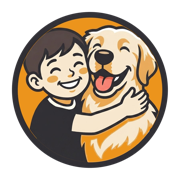
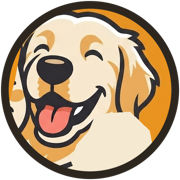
Raise the 12-month tier to 5x, cut the early-exit slash to 15%
Both numbers appear in the contract, the tests, four UI components, the
README and the pre-commitment doc, so all six were changed together.

The tier weighting test had the old multiplier baked into its arithmetic:
1000 flexible against 1000 locked was a 1:3 split of a 4000 donation, with
2000 escrowed as boost. At 5x the pool weight is 6000, so the donation moves
to 6000 to keep the shares exact — 1000 base to each, 4000 escrowed —
rather than introducing rounding into an equality assertion.

Two near-misses avoided: the '<20%>' in PRE-COMMITMENT is a bucket
allocation placeholder, and the 2_000n * UNIT values in the tests are token
amounts. Neither is the slash.

Favicons: uses the supplied dog-head crop instead of a downscale of the full
badge, which lost all structure in the tab. The site now has two marks —
badge-512 for link previews and listings, mark-* for anything small,
including the 44px header, where the two-figure scene was equally
unreadable. Deletes the icon-* files generated from the badge.

7 Rust tests, 37 integration tests, IDL regenerated.

diff --git a/tests/buddy-distributor.ts b/tests/buddy-distributor.ts
@@ -35,7 +35,7 @@ const UNIT = 1_000_000n; // 6 decimals
 // Mirrors EMERGENCY_EXIT_SLASH_BPS in programs/buddy-distributor/src/constants.rs.
 // Kept as a named constant because two separate assertions depend on it, and
 // hard-coding the fraction meant changing the slash silently broke the suite.
-const EMERGENCY_EXIT_SLASH_BPS = 2_000n; // 20%
+const EMERGENCY_EXIT_SLASH_BPS = 1_500n; // 15%
 const OLD_ALLOC = 550_000n * UNIT;
 const INF_ALLOC = 150_000n * UNIT;
 const SIGNER_ALLOC = 200_000n * UNIT;
@@ -736,11 +736,11 @@ describe("buddy-distributor", () => {
       const attacker = await makeStaker(b.env, 1_000n * UNIT);
       const loyal = await makeStaker(b.env, 1_000n * UNIT);
 
-      await stake(b.env, attacker.staker, attacker.acct, 1_000n * UNIT, Tier.TwelveMonth); // 3.0x
+      await stake(b.env, attacker.staker, attacker.acct, 1_000n * UNIT, Tier.TwelveMonth); // 5.0x
       await stake(b.env, loyal.staker, loyal.acct, 1_000n * UNIT, Tier.Flexible); // 1.0x
 
-      const donor = await makeStaker(b.env, 4_000n * UNIT);
-      await notifyTokens(b.env, donor.staker, donor.acct, 4_000n * UNIT);
+      const donor = await makeStaker(b.env, 6_000n * UNIT);
+      await notifyTokens(b.env, donor.staker, donor.acct, 6_000n * UNIT);
 
       // Attacker drains everything claimable, then immediately breaks the lock.
       await b.env.program.methods
@@ -815,8 +815,8 @@ describe("buddy-distributor", () => {
       await stake(b.env, quitter.staker, quitter.acct, 1_000n * UNIT, Tier.TwelveMonth);
       await stake(b.env, loyal.staker, loyal.acct, 1_000n * UNIT, Tier.Flexible);
 
-      const donor = await makeStaker(b.env, 4_000n * UNIT);
-      await notifyTokens(b.env, donor.staker, donor.acct, 4_000n * UNIT);
+      const donor = await makeStaker(b.env, 6_000n * UNIT);
+      await notifyTokens(b.env, donor.staker, donor.acct, 6_000n * UNIT);
 
       await b.env.program.methods
         .emergencyExit()
@@ -941,10 +941,10 @@ describe("buddy-distributor", () => {
       const flex = await makeStaker(b.env, 1_000n * UNIT);
       const locked = await makeStaker(b.env, 1_000n * UNIT);
       await stake(b.env, flex.staker, flex.acct, 1_000n * UNIT, Tier.Flexible); // weight 1000
-      await stake(b.env, locked.staker, locked.acct, 1_000n * UNIT, Tier.TwelveMonth); // weight 3000
+      await stake(b.env, locked.staker, locked.acct, 1_000n * UNIT, Tier.TwelveMonth); // weight 5000
 
-      const donor = await makeStaker(b.env, 4_000n * UNIT);
-      await notifyTokens(b.env, donor.staker, donor.acct, 4_000n * UNIT);
+      const donor = await makeStaker(b.env, 6_000n * UNIT);
+      await notifyTokens(b.env, donor.staker, donor.acct, 6_000n * UNIT);
 
       const flexPos = await (b.env.program.account as any).stakePosition.fetch(stakePda(flex.staker.publicKey, b.env.programId));
       const lockedPos = await (b.env.program.account as any).stakePosition.fetch(
@@ -952,10 +952,10 @@ describe("buddy-distributor", () => {
       );
       // Settlement is lazy, so read the pool accumulator and compute expectations.
       const pool = await (b.env.program.account as any).stakePool.fetch(b.env.poolPda);
-      assert.equal(pool.totalWeight.toString(), (4_000n * UNIT).toString());
+      assert.equal(pool.totalWeight.toString(), (6_000n * UNIT).toString());
 
-      // Flexible: 1/4 of 4000 = 1000, all of it base.
-      // Locked:   3/4 of 4000 = 3000, of which 1000 base and 2000 boost.
+      // Flexible: 1/6 of 6000 = 1000, all of it base.
+      // Locked:   5/6 of 6000 = 5000, of which 1000 base and 4000 boost.
       await b.env.program.methods
         .claimRewards()
         .accountsPartial({
@@ -996,7 +996,7 @@ describe("buddy-distributor", () => {
       const lockedAfter = await (b.env.program.account as any).stakePosition.fetch(
         stakePda(locked.staker.publicKey, b.env.programId)
       );
-      assert.equal(lockedAfter.escrowToken.toString(), (2_000n * UNIT).toString(), "the 2.0x boost is escrowed");
+      assert.equal(lockedAfter.escrowToken.toString(), (4_000n * UNIT).toString(), "the 4x boost above base is escrowed");
     });
 
     it("buffers rewards that arrive with nobody staked, then flushes them", async () => {
@@ -1242,8 +1242,8 @@ describe("buddy-distributor", () => {
       await stake(b.env, quitter.staker, quitter.acct, 1_000n * UNIT, Tier.TwelveMonth);
       await stake(b.env, loyal.staker, loyal.acct, 1_000n * UNIT, Tier.Flexible);
 
-      const donor = await makeStaker(b.env, 4_000n * UNIT);
-      await notifyTokens(b.env, donor.staker, donor.acct, 4_000n * UNIT);
+      const donor = await makeStaker(b.env, 6_000n * UNIT);
+      await notifyTokens(b.env, donor.staker, donor.acct, 6_000n * UNIT);
 
       await b.env.program.methods
         .emergencyExit()

diff --git a/app/src/components/Staking.tsx b/app/src/components/Staking.tsx
@@ -164,7 +164,7 @@ export function Staking() {
           until your lock matures, then paid in full.
           <br />
           <span className="muted">
-            Why hold it back: otherwise you could take a 3× share, collect for a
+            Why hold it back: otherwise you could take a 5× share, collect for a
             week, leave, and be paid for a commitment you never kept — at the
             expense of everyone who did keep theirs. Forfeited bonuses are not
             burned and do not come to us; they are shared among the stakers who
@@ -187,7 +187,7 @@ export function Staking() {
           keeps earning throughout the three days, the clock starts the moment
           you ask rather than the moment you staked, and once it elapses you can
           withdraw whenever suits you — there is no window to miss. Break a
-          locked tier early and you lose the whole bonus plus 20% of your stake;
+          locked tier early and you lose the whole bonus plus 15% of your stake;
           Flexible has no equivalent, because there is nothing to break.
           <br />
           The delay exists so nobody can watch a large reward land, stake for a
@@ -239,7 +239,7 @@ export function Staking() {
           {lockLeft && (
             <p className="muted small">
               Lock matures in {lockLeft}. Leaving before then forfeits the entire
-              boost escrow plus 20% of principal, both of which go to the stakers
+              boost escrow plus 15% of principal, both of which go to the stakers
               who stay.
             </p>
           )}
@@ -258,7 +258,7 @@ export function Staking() {
             </button>
             {lockLeft && (
               <button className="danger" disabled={busy} onClick={emergencyExit}>
-                Emergency exit (forfeit boost + 20%)
+                Emergency exit (forfeit boost + 15%)
               </button>
             )}
           </div>

diff --git a/app/index.html b/app/index.html
@@ -21,7 +21,7 @@
       content="Immutable program, burned upgrade authority, Token Creator's tokens locked in a stream, and a snapshot anyone can rebuild from public chain data. Four buckets, one rule."
     />
     <meta property="og:url" content="https://mybestbuddy.fun/" />
-    <meta property="og:image" content="https://mybestbuddy.fun/icon-512.png" />
+    <meta property="og:image" content="https://mybestbuddy.fun/badge-512.png" />
     <meta property="og:image:width" content="512" />
     <meta property="og:image:height" content="512" />
 
@@ -30,13 +30,15 @@
          wordmark included. Switch to the large card once there is a proper
          1200x630 banner to put in it. -->
     <meta name="twitter:card" content="summary" />
-    <meta name="twitter:image" content="https://mybestbuddy.fun/icon-512.png" />
+    <meta name="twitter:image" content="https://mybestbuddy.fun/badge-512.png" />
 
-    <!-- 32 and 16 are generated from the full badge for now. Both faces turn to
-         mush at that size, so they should be regenerated from a dog-head crop
-         once one exists — see app/public/README.md. -->
-    <link rel="icon" type="image/png" sizes="32x32" href="/icon-32.png" />
-    <link rel="icon" type="image/png" sizes="16x16" href="/icon-16.png" />
+    <!-- Two marks, deliberately. `badge` is the full scene and is only ever
+         shown large; `mark` is the dog's head alone, because a boy and a dog
+         cheek to cheek turn to mush below about 64px. Nothing here is a
+         downscale of the badge. -->
+    <link rel="icon" href="/favicon.ico" sizes="any" />
+    <link rel="icon" type="image/png" sizes="32x32" href="/mark-32.png" />
+    <link rel="icon" type="image/png" sizes="16x16" href="/mark-16.png" />
     <link rel="apple-touch-icon" sizes="180x180" href="/apple-touch-icon.png" />
   </head>
   <body>

diff --git a/app/src/config.ts b/app/src/config.ts
@@ -194,7 +194,7 @@ export const TIERS = [
     ],
     costs: [
       "Locked for 30 days",
-      "Leaving early forfeits the entire bonus plus 20% of your stake",
+      "Leaving early forfeits the entire bonus plus 15% of your stake",
     ],
   },
   {
@@ -210,25 +210,25 @@ export const TIERS = [
     ],
     costs: [
       "Locked for 90 days",
-      "Leaving early forfeits the entire bonus plus 20% of your stake",
+      "Leaving early forfeits the entire bonus plus 15% of your stake",
     ],
   },
   {
     id: 3,
     name: "12 months",
-    multiplier: "3.0x",
+    multiplier: "5.0x",
     lock: "365 days",
-    tagline: "The largest share available",
+    tagline: "Five times the share, for a full year",
     popular: true,
     perks: [
-      "Counts as 3× your stake when rewards are split",
+      "Counts as 5× your stake when rewards are split",
       "Base rewards still claimable any time",
       "Bonus paid in full at day 365",
       "Earns from everything others forfeit along the way",
     ],
     costs: [
       "Locked for a full year",
-      "Leaving early forfeits the entire bonus plus 20% of your stake",
+      "Leaving early forfeits the entire bonus plus 15% of your stake",
     ],
   },
 ];

diff --git a/app/src/components/HowItWorks.tsx b/app/src/components/HowItWorks.tsx
@@ -150,15 +150,15 @@ export function HowItWorks() {
         <h2>Staking, and why the multiplier is held back</h2>
         <p>
           Staking registers you for everything the ecosystem earns. Longer locks
-          earn more — up to 3× for twelve months.
+          earn more — up to 5× for twelve months.
         </p>
         <p>
           <strong>Your base rewards are claimable at any time, in every tier.</strong>{" "}
           The extra your multiplier earns is held until your lock matures, and is
-          forfeited if you leave early, along with 20% of your stake.
+          forfeited if you leave early, along with 15% of your stake.
         </p>
         <p className="muted">
-          Without that, someone could take the 3× rate, collect triple rewards
+          Without that, someone could take the 5× rate, collect five times the rewards
           for a few weeks, walk away, and have been paid the full multiplier for
           a commitment they never kept — diluting everyone who actually locked.
           Break a lock and you keep roughly what a flexible staker would have

diff --git a/app/src/App.tsx b/app/src/App.tsx
@@ -37,9 +37,9 @@ export function App() {
         <div className="brand">
           {/* Decorative: the h1 beside it already names the project, so
               announcing the logo too would just repeat it to a screen reader. */}
-          {/* icon-192, not the 1024 master — 48 KB instead of 660 KB, and
-              indistinguishable at 44px. */}
-          <img className="brand-mark" src="/icon-192.png" alt="" width="44" height="44" />
+          {/* The dog's head, not the full badge: at 44px the two-figure scene
+              is unreadable, and the wordmark beside it already says "Buddy". */}
+          <img className="brand-mark" src="/mark-192.png" alt="" width="44" height="44" />
           <div className="brand-text">
             <h1>Buddy</h1>
             <span className="tagline">community-owned, on-chain, verifiable</span>

diff --git a/app/src/components/Verify.tsx b/app/src/components/Verify.tsx
@@ -317,8 +317,8 @@ export function Verify() {
             </li>
             <li>
               <strong>Broken staking locks.</strong> If somebody picks a locked
-              tier — say 12 months at 3× — and then pulls their tokens out
-              early, they give up the entire bonus they had accrued plus 20% of
+              tier — say 12 months at 5× — and then pulls their tokens out
+              early, they give up the entire bonus they had accrued plus 15% of
               their stake. That is what "broken lock" means: a commitment ended
               before its term. The penalty is not burned and does not come to
               us; it is shared among the stakers who kept theirs.

diff --git a/scripts/devnet-rehearsal.ts b/scripts/devnet-rehearsal.ts
@@ -539,7 +539,7 @@ async function main() {
   Not covered here (needs a fake clock — see the bankrun tests via 'npm test'):
     - the 30-day and 72-hour windows expiring
     - the three sweeps moving remainders into bucket 1
-    - emergency exit forfeiting boost + 20%
+    - emergency exit forfeiting boost + 15%
     - the 2030 original-signer deadline
 
   Not covered here at all (pump.fun has no devnet): the creator-fee chain.

diff --git a/programs/buddy-distributor/src/instructions/staking.rs b/programs/buddy-distributor/src/instructions/staking.rs
@@ -141,7 +141,7 @@ pub fn stake(ctx: Context<Stake>, amount: u64, tier_raw: u8) -> Result<()> {
         // Settle at the *old* weight before anything about the position changes.
         position.settle(pool)?;
         // A top-up may keep the current tier or move up to a longer lock, but it
-        // may never move down — that would let someone buy the 3.0x rate and
+        // may never move down — that would let someone buy the 5.0x rate and
         // then shorten the commitment it was paying for.
         require!(
             tier.multiplier_bps() >= position.tier.multiplier_bps(),
@@ -404,7 +404,7 @@ pub struct EmergencyExit<'info> {
 /// The staker keeps their settled base rewards — that is the part a flexible
 /// staker would have earned anyway, and it was always immediately claimable.
 /// They forfeit the boost escrow (the portion the multiplier bought, which they
-/// did not finish earning) plus 20% of principal. Both forfeitures are
+/// did not finish earning) plus 15% of principal. Both forfeitures are
 /// redistributed to the stakers who stayed, which is why the exiting position's
 /// weight is removed from the pool *before* the redistribution happens.
 pub fn emergency_exit(ctx: Context<EmergencyExit>) -> Result<()> {

diff --git a/programs/buddy-distributor/src/constants.rs b/programs/buddy-distributor/src/constants.rs
@@ -23,7 +23,7 @@ pub const BPS_DENOMINATOR: u64 = 10_000;
 pub const TIER_FLEXIBLE_BPS: u64 = 10_000; // 1.0x
 pub const TIER_ONE_MONTH_BPS: u64 = 15_000; // 1.5x
 pub const TIER_THREE_MONTH_BPS: u64 = 20_000; // 2.0x
-pub const TIER_TWELVE_MONTH_BPS: u64 = 30_000; // 3.0x
+pub const TIER_TWELVE_MONTH_BPS: u64 = 50_000; // 5.0x
 
 /// Lock durations in seconds.
 pub const ONE_DAY: i64 = 86_400;
@@ -38,7 +38,7 @@ pub const UNSTAKE_COOLDOWN: i64 = 3 * ONE_DAY;
 
 /// Penalty applied to *principal* when a locked position exits early, in bps.
 /// The forfeited boost escrow is on top of this. Both flow to the stake pool.
-pub const EMERGENCY_EXIT_SLASH_BPS: u64 = 2_000; // 20%
+pub const EMERGENCY_EXIT_SLASH_BPS: u64 = 1_500; // 15%
 
 /// Claim windows.
 pub const OLD_HOLDER_CLAIM_WINDOW: i64 = 30 * ONE_DAY;

diff --git a/programs/buddy-distributor/src/state.rs b/programs/buddy-distributor/src/state.rs
@@ -256,7 +256,7 @@ impl Tier {
 /// multiplier), but only the portion attributable to `amount x 1.0` is
 /// immediately claimable. The remainder — the part the multiplier bought — is
 /// escrowed until the lock matures, and is forfeited on early exit. Without
-/// this, a staker could take the 3.0x rate, claim continuously, and leave after
+/// this, a staker could take the 5.0x rate, claim continuously, and leave after
 /// a few weeks having honoured none of the commitment the multiplier paid for.
 #[account]
 #[derive(InitSpace)]

diff --git a/app/public/README.md b/app/public/README.md
@@ -1,45 +1,47 @@
 # Brand assets
 
-`logo.png` is the master: 1024×1024, RGBA, transparent outside the badge.
-Everything else here is generated from it.
+Two marks, not one, because a boy and a dog cheek to cheek stop being
+readable somewhere around 64px. Which one to use is decided by size, not by
+context.
+
+| Source | Master | Used for |
+|---|---|---|
+| `logo.png` | 1024×1024 full badge | the scene, with the wordmark |
+| `favicons/favicon_512.png` | 512×512 dog's head | everything small |
+
+## Generated files
+
+| File | From | Used by |
+|---|---|---|
+| `badge-512.png` | `logo.png` | `og:image`, `twitter:image`, token metadata, pump.fun |
+| `mark-192.png` | the crop | site header (44px) |
+| `apple-touch-icon.png` | the crop | iOS home screen |
+| `mark-32.png`, `mark-16.png` | the crop | browser tab |
+| `favicon.ico` | supplied | browser tab, legacy |
+
+Nothing small is a downscale of the badge. That was the earlier mistake: the
+structure disappeared entirely in the tab.
 
 ## Regenerating
 
 ```bash
 cd app/public
-for s in 512 192 32 16; do sips -s format png -Z $s logo.png --out "icon-$s.png"; done
-sips -s format png -Z 180 logo.png --out apple-touch-icon.png
+sips -s format png -Z 512 logo.png --out badge-512.png
+for s in 192 32 16; do sips -s format png -Z $s favicons/favicon_512.png --out "mark-$s.png"; done
+sips -s format png -Z 180 favicons/favicon_512.png --out apple-touch-icon.png
 ```
 
-| File | Used by |
-|---|---|
-| `logo.png` | site header |
-| `icon-512.png` | `og:image`, `twitter:image`, token metadata |
-| `icon-192.png` | Android home screen |
-| `apple-touch-icon.png` | iOS home screen |
-| `icon-32.png`, `icon-16.png` | browser tab |
+`favicons/` holds the originals as supplied and is not referenced by the app
+except as the source above. `favicon.ico` is copied from it verbatim.
 
-## The favicon still needs a different crop
+## Note on the header
 
-The 32 and 16 are currently downscaled from the full badge, and at that size a
-boy and a dog cheek to cheek become an unreadable smudge. That is a property of
-the composition, not the file format — a vector version would be no better.
-
-The fix is a second mark: **the dog's head alone**, cropped from the same
-artwork so it is recognisably the same character. Save it as `mark.png`, square
-and 512×512 or larger, then:
-
-```bash
-cd app/public
-sips -s format png -Z 32 mark.png --out icon-32.png
-sips -s format png -Z 16 mark.png --out icon-16.png
-```
-
-Nothing else changes — `index.html` already points at those filenames.
+The header shows the dog's head, not the full badge — at 44px the scene is
+unreadable, and the wordmark next to it already says "Buddy". The badge earns
+its place on link previews and exchange listings, where it is shown big enough
+to be understood.
 
 ## Not served
 
-`logo.png` is 660 KB, which is heavy for a 44px header mark. It is kept at full
-resolution because it is also the source for every export above. If page weight
-ever matters, point the header at `icon-192.png` instead; the file is 48 KB and
-indistinguishable at that size.
+`logo.png` is 660 KB and is kept only as the export source. Markdown in this
+directory is excluded from the production deploy, so this file is not public.
